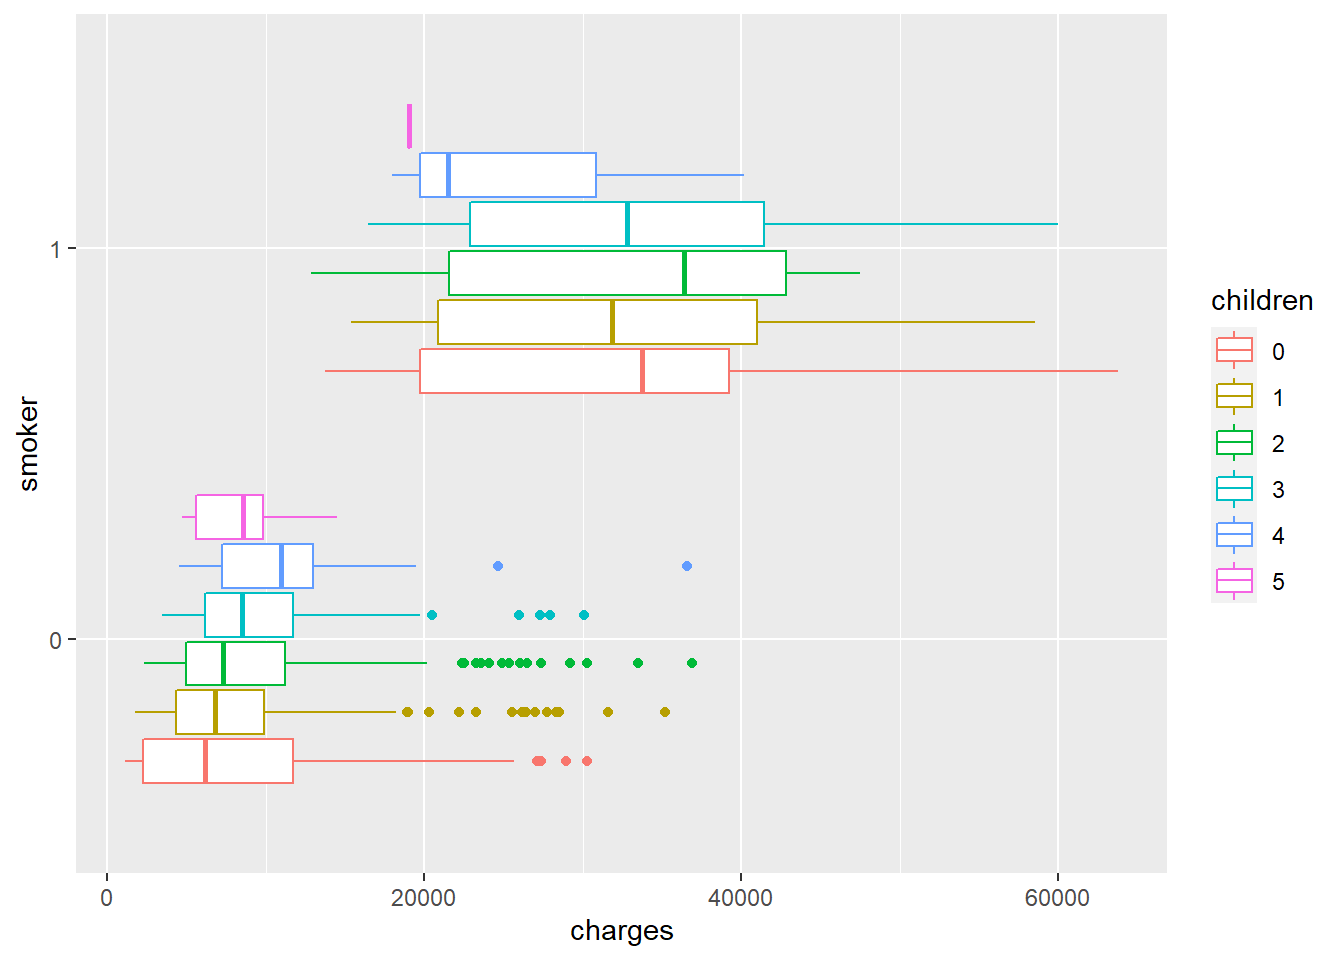
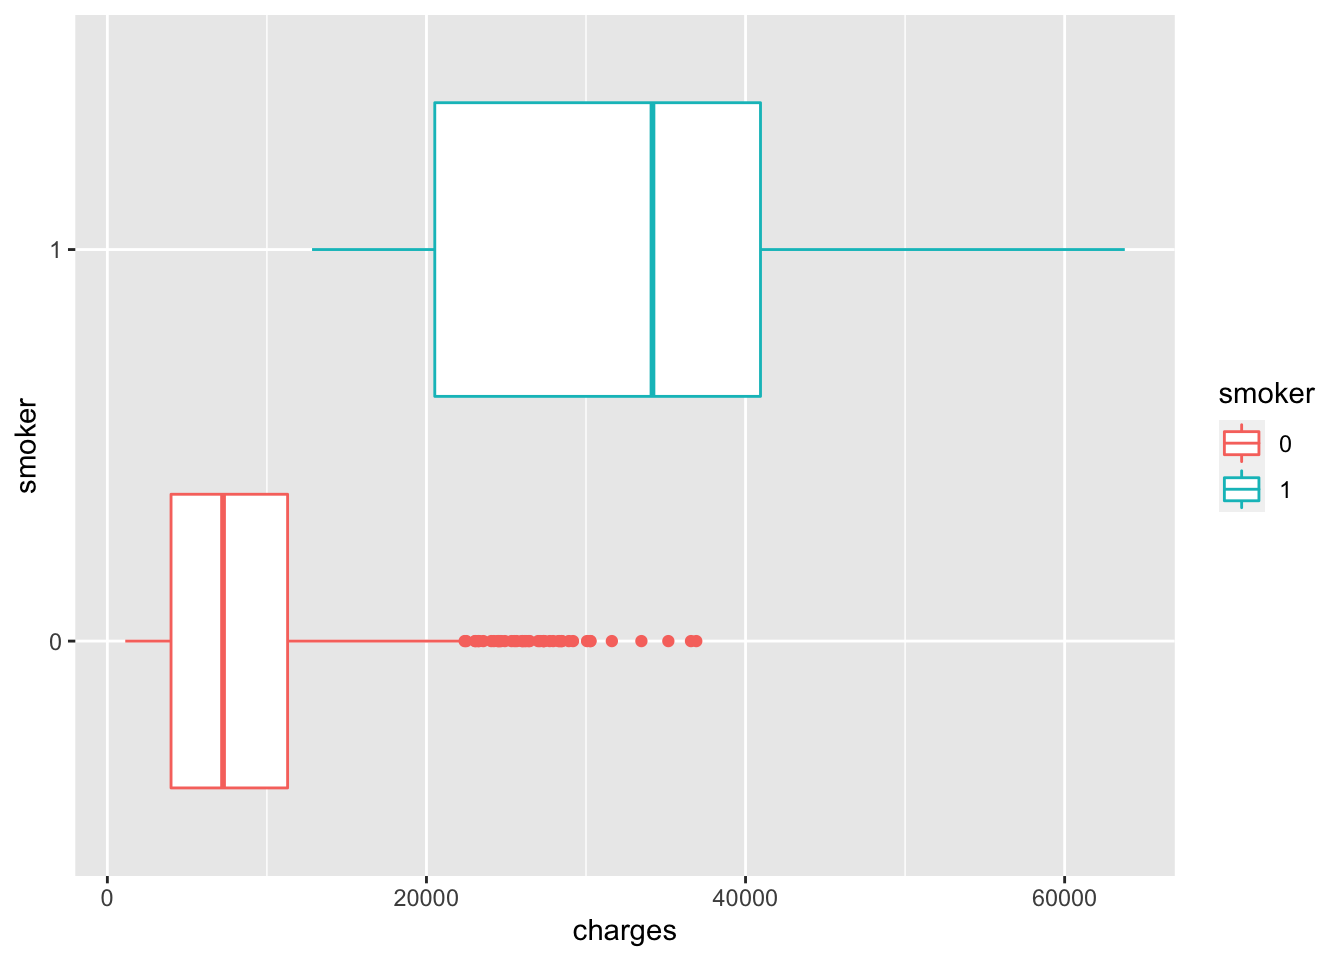
variables that affect charge of insurance; collinearity examination

diff --git a/medical_cost.html b/medical_cost.html
@@ -9,7 +9,6 @@
 <meta http-equiv="X-UA-Compatible" content="IE=EDGE" />
 
 
-<meta name="author" content="Yushan Wang" />
 
 
 <title>Medical cost analysis</title>
@@ -284,18 +283,133 @@ $(document).ready(function () {
 
 
 <h1 class="title toc-ignore">Medical cost analysis</h1>
-<h4 class="author">Yushan Wang</h4>
 
 </div>
 
 
-<p><img src="medical_cost_files/figure-html/unnamed-chunk-4-1.png" width="672" /><img src="medical_cost_files/figure-html/unnamed-chunk-4-2.png" width="672" /><img src="medical_cost_files/figure-html/unnamed-chunk-4-3.png" width="672" /><img src="medical_cost_files/figure-html/unnamed-chunk-4-4.png" width="672" /></p>
-<p>smoker have significantly higher insurance cost than non smoker. For people in the same category of smoking, there is no significant difference of cost between number of children they have, their sex, and their region. However, there is significant different between different age group: older age group has higher cost.</p>
-<pre><code>## `geom_smooth()` using method = &#39;gam&#39; and formula &#39;y ~ s(x, bs = &quot;cs&quot;)&#39;</code></pre>
+<div id="does-smoker-get-higher-charges-for-insurance-than-non-smoker" class="section level2">
+<h2>Does smoker get higher charges for insurance than non-smoker?</h2>
+<pre class="r"><code>ggplot(cost_df, aes(x = smoker, y = charges, color = smoker)) + 
+  geom_boxplot() + 
+  coord_flip()</code></pre>
+<p><img src="medical_cost_files/figure-html/unnamed-chunk-4-1.png" width="672" /></p>
+<p>YES! Smoker have significantly higher insurance cost than non smoker.</p>
+</div>
+<div id="does-number-of-children-affect-charges-of-insurance" class="section level2">
+<h2>Does number of Children affect charges of insurance?</h2>
 <p><img src="medical_cost_files/figure-html/unnamed-chunk-5-1.png" width="672" /></p>
-<p>higher cost for higher bmi</p>
-<p>however: <img src="medical_cost_files/figure-html/unnamed-chunk-6-1.png" width="672" /></p>
-<p>after stratify by smoking status, the charges do not show the same pattern for bmi</p>
+<p><span class="math inline">\(H_0\)</span>: mean charges of insurance for having or not having children is the same.</p>
+<p><span class="math inline">\(H_1\)</span>: mean charges of insurance for having children is higher than not having children.</p>
+<pre class="r"><code>var.test(charges ~ children_group, data = cost_df)</code></pre>
+<pre><code>## 
+##  F test to compare two variances
+## 
+## data:  charges by children_group
+## F = 0.97454, num df = 531, denom df = 728, p-value = 0.7527
+## alternative hypothesis: true ratio of variances is not equal to 1
+## 95 percent confidence interval:
+##  0.8326569 1.1428600
+## sample estimates:
+## ratio of variances 
+##          0.9745361</code></pre>
+<pre class="r"><code>#Equal variance
+children_res &lt;- t.test(charges ~ children_group, data = cost_df, var.equal = TRUE, alternative = &quot;less&quot;)
+children_res</code></pre>
+<pre><code>## 
+##  Two Sample t-test
+## 
+## data:  charges by children_group
+## t = -2.444, df = 1259, p-value = 0.007331
+## alternative hypothesis: true difference in means between group 0 and group 1 is less than 0
+## 95 percent confidence interval:
+##       -Inf -543.4854
+## sample estimates:
+## mean in group 0 mean in group 1 
+##        12136.31        13800.96</code></pre>
+<p>At 0.05 significant level, we reject the null hypothesis and conclude that mean charges of insurance for having children is higher than not having children.</p>
+</div>
+<div id="does-sex-affect-charges-of-insurance" class="section level2">
+<h2>Does sex affect charges of insurance?</h2>
+<pre class="r"><code>ggplot(cost_df, aes(x = sex, y = charges, color = sex)) + 
+  geom_boxplot() + 
+  coord_flip()</code></pre>
+<p><img src="medical_cost_files/figure-html/unnamed-chunk-7-1.png" width="672" /></p>
+<p><span class="math inline">\(H_0\)</span>: mean charges of insurance for male and female is the same.</p>
+<p><span class="math inline">\(H_1\)</span>: mean charges of insurance for male and female is different.</p>
+<pre class="r"><code>var.test(charges ~ sex, data = cost_df)</code></pre>
+<pre><code>## 
+##  F test to compare two variances
+## 
+## data:  charges by sex
+## F = 1.3972, num df = 637, denom df = 622, p-value = 2.897e-05
+## alternative hypothesis: true ratio of variances is not equal to 1
+## 95 percent confidence interval:
+##  1.194861 1.633633
+## sample estimates:
+## ratio of variances 
+##            1.39723</code></pre>
+<pre class="r"><code>#Equal variance
+sex_res &lt;- t.test(charges ~ sex, data = cost_df, var.equal = FALSE)
+sex_res</code></pre>
+<pre><code>## 
+##  Welch Two Sample t-test
+## 
+## data:  charges by sex
+## t = 2.0305, df = 1234, p-value = 0.04252
+## alternative hypothesis: true difference in means between group 1 and group 2 is not equal to 0
+## 95 percent confidence interval:
+##    46.09322 2682.75235
+## sample estimates:
+## mean in group 1 mean in group 2 
+##        13772.76        12408.34</code></pre>
+<pre class="r"><code>sex_res &lt;- t.test(charges ~ sex, data = cost_df, var.equal = FALSE, alternative = &quot;less&quot;)
+sex_res</code></pre>
+<pre><code>## 
+##  Welch Two Sample t-test
+## 
+## data:  charges by sex
+## t = 2.0305, df = 1234, p-value = 0.9787
+## alternative hypothesis: true difference in means between group 1 and group 2 is less than 0
+## 95 percent confidence interval:
+##      -Inf 2470.545
+## sample estimates:
+## mean in group 1 mean in group 2 
+##        13772.76        12408.34</code></pre>
+<p>At 0.05 significant level, we reject the null hypothesis and conclude that mean charges of insurance for male and female are different. In fact, male have higher mean cost than female. This is quiet counter-intuitive.</p>
+</div>
+<div id="does-age-affect-charges-of-insurance" class="section level2">
+<h2>Does age affect charges of insurance?</h2>
+<pre class="r"><code>ggplot(cost_df, aes(x = age, y = charges)) + 
+  geom_smooth() </code></pre>
+<pre><code>## `geom_smooth()` using method = &#39;gam&#39; and formula &#39;y ~ s(x, bs = &quot;cs&quot;)&#39;</code></pre>
+<p><img src="medical_cost_files/figure-html/unnamed-chunk-9-1.png" width="672" /></p>
+<p>It is clear from the plot that higher age have higher cost of insurance.</p>
+</div>
+<div id="does-bmi-affect-charges-of-insurance" class="section level2">
+<h2>Does bmi affect charges of insurance?</h2>
+<pre><code>## `geom_smooth()` using method = &#39;gam&#39; and formula &#39;y ~ s(x, bs = &quot;cs&quot;)&#39;</code></pre>
+<p><img src="medical_cost_files/figure-html/unnamed-chunk-10-1.png" width="672" /></p>
+<p>It is clear from the plot that higher bmi have higher cost of insurance.</p>
+</div>
+<div id="conclusion" class="section level2">
+<h2>conclusion</h2>
+<p>Variables that affect charge of insurance: <code>smoking</code>, <code>whether or not having children</code>, <code>sex</code>, <code>age</code>, <code>bmi</code>.</p>
+</div>
+<div id="collinearity-examination" class="section level2">
+<h2>collinearity examination</h2>
+<pre class="r"><code>#model &lt;- glm(charges ~ smoker + children_group + sex + age + bmi, data = cost_df)
+
+cost_df_cor = cost_df %&gt;% 
+  select(age, sex, bmi, smoker, charges, children_group)
+
+
+
+model.matrix(~0+., data=cost_df_cor) %&gt;% 
+  cor(use=&quot;pairwise.complete.obs&quot;) %&gt;% 
+  ggcorrplot(show.diag = F, type=&quot;lower&quot;, lab=TRUE, lab_size=2)</code></pre>
+<p><img src="medical_cost_files/figure-html/unnamed-chunk-11-1.png" width="672" /></p>
+<p>There is no collinearity between any of the variables.</p>
+</div>
 
 
 
